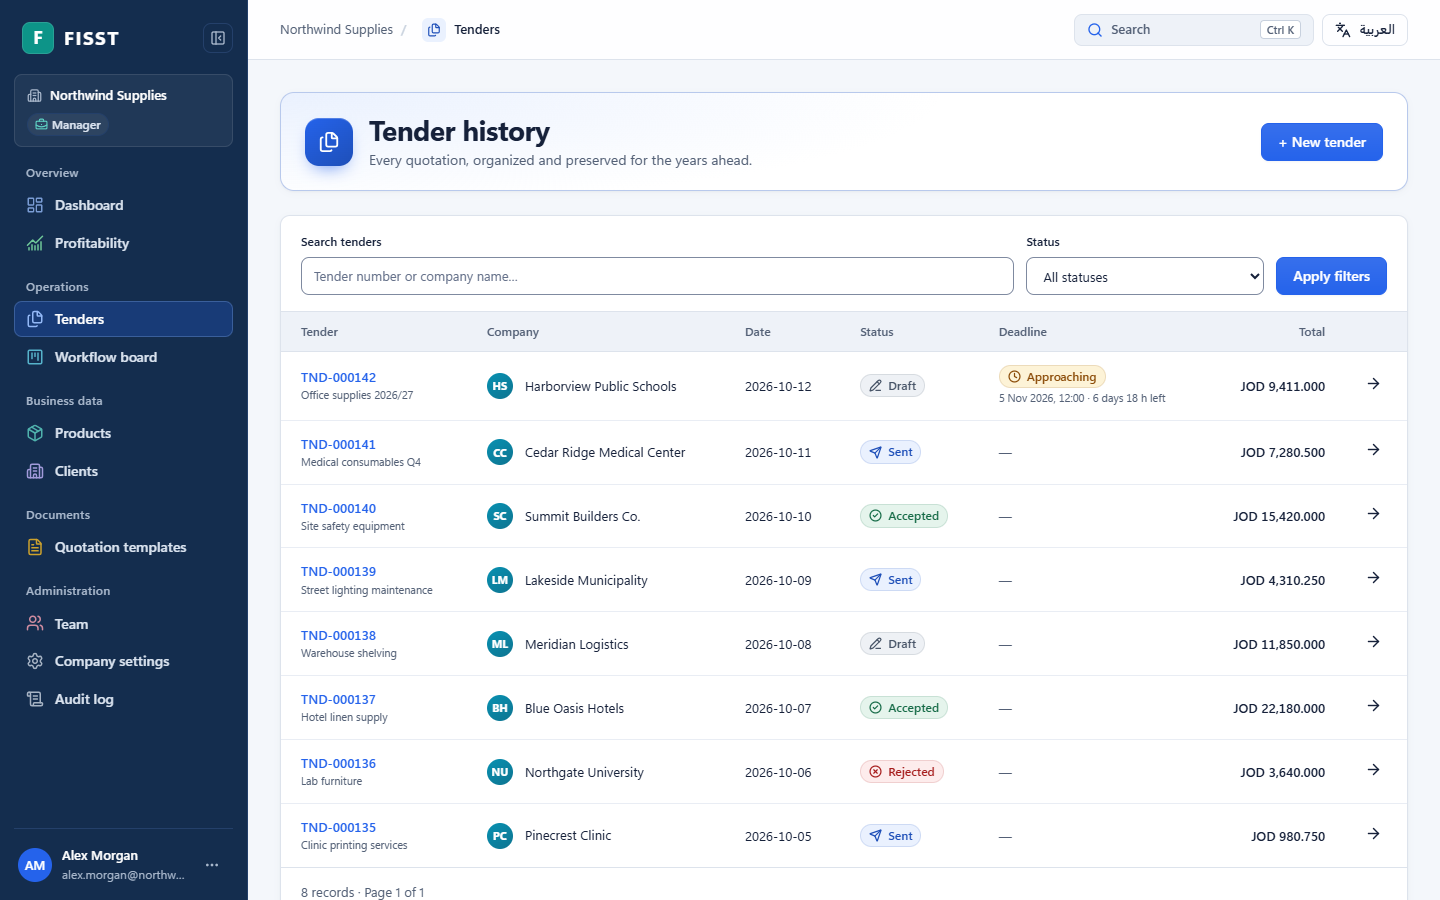
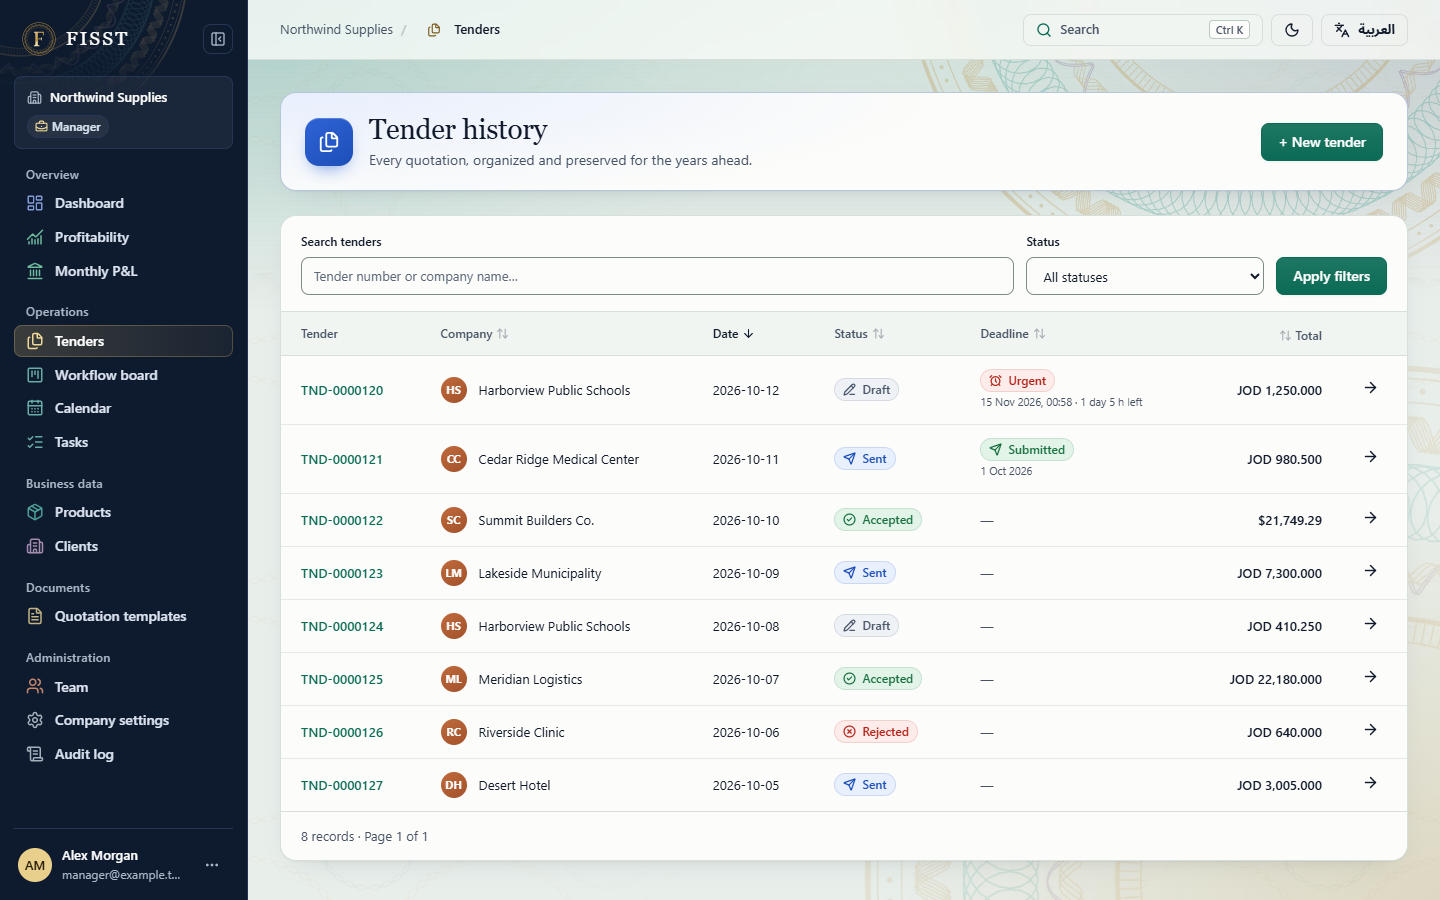
Update showcase for the latest FISST: calendar, tasks, financial dashboard, monthly P&L, themes

diff --git a/README.md b/README.md
@@ -1,6 +1,6 @@
 # FISST — Tender & Quotation Management SaaS
 
-**A multi-tenant web platform that takes suppliers from first price list to final quotation: tenders, products, clients, workflow and professional bilingual documents in one place.**
+**A multi-tenant web platform that takes suppliers from first price list to final quotation: tenders, products, clients, workflow, finance and professional bilingual documents in one place.**
 
 ![FISST dashboard](screenshots/01-dashboard.png)
 
@@ -11,10 +11,11 @@ FISST is a multi-tenant SaaS application for companies that bid on tenders and s
 - maintain a **product catalog** and a **client directory**,
 - build **tenders** line by line with cost, offer price and profit per item,
 - move tenders through a **workflow board** (Draft → Sent → Accepted / Rejected),
+- follow **deadlines on a calendar** and coordinate work with **team tasks**,
 - export finished **quotations to Word, PDF and Excel** on the company's own letterhead,
-- track performance on a **dashboard**,
+- understand the business through a **financial dashboard and a monthly profit & loss report**,
 
-all in **English or Arabic**, with full left-to-right and right-to-left layouts.
+all in **English or Arabic**, with full left-to-right and right-to-left layouts, in a **light or dark** theme.
 
 ## Screenshots
 
@@ -22,10 +23,12 @@ all in **English or Arabic**, with full left-to-right and right-to-left layouts.
 
 | | |
 |---|---|
-| **Dashboard** — KPIs, monthly quoted value, status pipeline<br>![Dashboard](screenshots/01-dashboard.png) | **Tender history** — search, filters, status and deadline badges<br>![Tenders list](screenshots/02-tenders-list.png) |
-| **Quotation editor** — line items with cost, offer price, profit and currency toggle<br>![Quotation editor](screenshots/03-quotation-editor.png) | **Workflow board** — drag-and-drop Kanban by tender status<br>![Workflow board](screenshots/04-workflow-board.png) |
+| **Dashboard** — KPIs, monthly quoted value, status pipeline<br>![Dashboard](screenshots/01-dashboard.png) | **Tender history** — search, sortable columns, status and deadline badges<br>![Tenders list](screenshots/02-tenders-list.png) |
+| **Quotation editor** — line items with cost, offer price, profit and currency toggle<br>![Quotation editor](screenshots/03-quotation-editor.png) | **Workflow board** — Kanban by tender status<br>![Workflow board](screenshots/04-workflow-board.png) |
+| **Calendar** — tender deadlines by month with status filters<br>![Calendar](screenshots/07-calendar.png) | **Team tasks** — assignees, priorities, due dates and overdue flags<br>![Tasks](screenshots/08-tasks.png) |
+| **Financial overview** — accepted value, estimated profit, margin and win rate<br>![Financial overview](screenshots/09-financial-overview.png) | **Monthly profit & loss** — revenue, costs, fixed expenses and month closing<br>![Monthly P&L](screenshots/10-monthly-pnl.png) |
 | **Products** — bilingual catalog with categories, codes and prices<br>![Products](screenshots/05-products.png) | **Clients** — client directory with contact details<br>![Clients](screenshots/06-clients.png) |
-| **Arabic / RTL** — the full interface mirrored for right-to-left use<br>![Dashboard in Arabic](screenshots/07-dashboard-arabic.png) | |
+| **Dark theme**<br>![Dark theme](screenshots/11-dark-theme.png) | **Arabic / RTL** — the full interface mirrored for right-to-left use<br>![Arabic RTL dashboard](screenshots/12-arabic-rtl.png) |
 
 ## Key Features
 
@@ -34,35 +37,46 @@ all in **English or Arabic**, with full left-to-right and right-to-left layouts.
 - Line-item editor with quantity, original cost, offer price, per-line profit and margin
 - Unit prices with up to 7 decimal places and currency-correct rounding of totals
 - Quotation currency selection with saved exchange rates
-- Submission deadlines with urgency badges
+- Submission deadlines with urgency badges, plus a month-view **deadline calendar**
 - Automatic draft saving and saved versions of each tender
 - Quick-add of new products and clients without leaving the tender
+- Permanent deletion of tenders (with confirmation) and protection of accepted tenders from accidental edits
 
-**Workflow**
-- Kanban workflow board with drag-and-drop status changes
-- Tender history with search, status filters and pagination
+**Workflow & teamwork**
+- Kanban workflow board with status changes
+- **Team tasks**: assign work to members, set priority and due date, track progress, and see overdue work
+- Tender history with search, status filters, sorting and pagination
 - Global search (Ctrl K) across the workspace
+- In-app notifications and confirmations for key operations
 
 **Catalog & clients**
-- Product catalog with categories, Arabic and English names, codes/barcodes and camera barcode scanning
+- Product catalog with categories, Arabic and English names, brands, codes/barcodes and camera barcode scanning
+- Product and client import from Excel spreadsheets
 - Client companies with up to five contact persons each
-- Client import from Excel spreadsheets
 
 **Documents**
 - Quotation export to **Word (.docx)**, **PDF** and **Excel (.xlsx)**
 - Company letterhead templates (PDF and Word), including native PDF rendering of Word letterheads
-- Arabic and English documents with correct right-to-left typography
+- Arabic and English documents with correct right-to-left typography and bidirectional text shaping
 
-**Insights & administration**
+**Finance & insights**
 - Dashboard with quoted value, win rate, status pipeline, recent tenders and top clients
-- Profitability report
-- Team management with roles (Manager, Employee) and fine-grained permissions, plus email invitations
+- Financial overview with accepted value, estimated profit, weighted margin, loss-making tenders and period comparison
+- **Monthly profit & loss**: revenue from accepted tenders, product costs, tender expenses, company fixed expenses, month closing and post-closing adjustments
+- Profitability report and warnings when cost data is missing
+
+**Team, security & administration**
+- Company roles (Manager, Employee) with **granular, default-deny permissions** — for example who may see costs and profit, edit catalog prices, import data or delete records
+- Team management with email invitations and member removal
 - Audit log of important changes
 - Platform console for the Super Admin to manage companies, protected by multi-factor authentication
+- Bot protection on public forms (Cloudflare Turnstile), rate limiting, and a strict Content Security Policy
+- Secure password reset
 
-**Security**
-- Bot protection on public forms (Cloudflare Turnstile)
-- Rate limiting and a strict Content Security Policy
+**Experience**
+- English and Arabic interface with RTL/LTR layouts
+- Light and dark themes with a custom visual identity
+- Public landing page
 
 ## Technology Stack
 
@@ -72,17 +86,17 @@ all in **English or Arabic**, with full left-to-right and right-to-left layouts.
 | UI | **React 19**, **TypeScript**, custom CSS design system (no CSS framework), Lucide icons |
 | Backend & data | **Supabase** — **PostgreSQL** with **Row Level Security**, Supabase Auth and Storage |
 | Validation & numbers | Zod schemas, decimal.js for exact money arithmetic |
-| Documents | docx (Word), pdf-lib + fontkit (PDF), ExcelJS (Excel), pdf.js and sharp for rendering |
+| Documents | docx (Word), pdf-lib + fontkit (PDF), ExcelJS (Excel), bidi-js for Arabic text, pdf.js and sharp for rendering |
 | Testing | Vitest (unit/integration, PGlite in-memory Postgres), Playwright (browser), axe-core (accessibility) |
 | Hosting | **Vercel** |
 
 ## Engineering Highlights
 
 - **Tenant isolation by design** — every company's data is separated at the database level with PostgreSQL Row Level Security, not only in application code, so one workspace can never read or change another's records.
-- **Authentication and role-based access control** — company roles and granular permissions (for example who can see costs and profit or edit catalog prices) are enforced on the server and in the database, with a separate, MFA-protected platform administration area.
+- **Authentication and role-based access control** — company roles and default-deny, granular permissions are enforced on the server and in the database, with a separate, MFA-protected platform administration area.
 - **Document generation pipeline** — the same quotation model produces Word, PDF and Excel output, applies uploaded company letterheads, and renders Arabic text correctly in every format.
 - **Bilingual RTL/LTR product** — the entire interface and every generated document work in English and Arabic, including mirrored layouts and mixed-direction content such as product codes and phone numbers.
-- **Careful data modelling for money** — exact decimal arithmetic, per-currency rounding rules, saved exchange rates and versioned tenders keep quoted totals reproducible over time.
+- **Careful data modelling for money** — exact decimal arithmetic, per-currency rounding rules, saved exchange rates, versioned tenders and monthly closing keep quoted and reported figures reproducible over time.
 - **Quality gates** — an extensive automated test suite (unit, database, browser and accessibility tests) runs against isolated local databases.
 
 ## Live Demo
